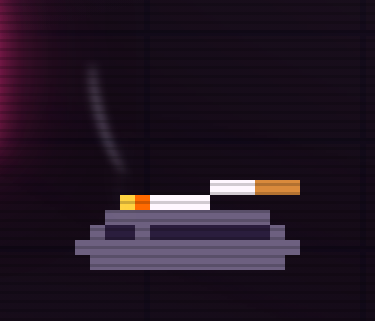
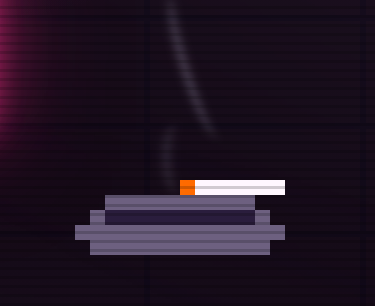
Ghost Jam: just flip the original cigarette, ember over the bowl
Claude-Session: https://claude.ai/code/session_01CbgJPvH5Uj79DTWXv8xgAA

diff --git a/jam/js/sprites.js b/jam/js/sprites.js
@@ -8,8 +8,6 @@ const PALETTE = {
   A: '#ffb000',   // beer
   Y: '#ffe48a',   // bubbles
   O: '#ff6a00',   // ember
-  R: '#ffd23f',   // ember core
-  F: '#d98a3c',   // cigarette filter
   T: '#f3d9a4',   // drumsticks, bow
   D: '#9a5a2a',   // wood
   S: '#cfd8f0',   // silver
@@ -48,14 +46,12 @@ export const MAPS = {
     '.KAAAAAAAK..',
     '.KKKKKKKKK..',
   ],
-  // The cigarette rests in the notch: lit end over the bowl, filter outside.
   ashtray: [
-    '..........WWWFFF.',
-    '....ROWWWW.......',
-    '...GGGGGGGGGGG...',
-    '..GKKGKKKKKKKKG..',
-    '.GGGGGGGGGGGGGGG.',
-    '..GGGGGGGGGGGGG..',
+    '........OWWWWWW..',
+    '...GGGGGGGGGG....',
+    '..GKKKKKKKKKKG...',
+    '.GGGGGGGGGGGGGG..',
+    '..GGGGGGGGGGGG...',
   ],
   coin: [
     '..####..',

diff --git a/jam/jam.css b/jam/jam.css
@@ -218,8 +218,8 @@ input[type="range"] { accent-color: var(--pink); width: 100%; }
 .prop-ash { color: var(--violet); }
 .wisp {
   position: absolute;
-  left: 18px;
-  bottom: 22px;
+  left: 40px;
+  bottom: 26px;
   width: 10px;
   height: 46px;
   border-radius: 50%;
@@ -227,7 +227,7 @@ input[type="range"] { accent-color: var(--pink); width: 100%; }
   filter: blur(1.5px);
   animation: wisp 3.2s ease-in-out infinite;
 }
-.wisp.w2 { left: 12px; animation-delay: -1.6s; height: 38px; }
+.wisp.w2 { left: 34px; animation-delay: -1.6s; height: 38px; }
 @keyframes wisp {
   0% { transform: translateY(6px) scaleY(0.6) skewX(0deg); opacity: 0; }
   30% { opacity: 1; }
